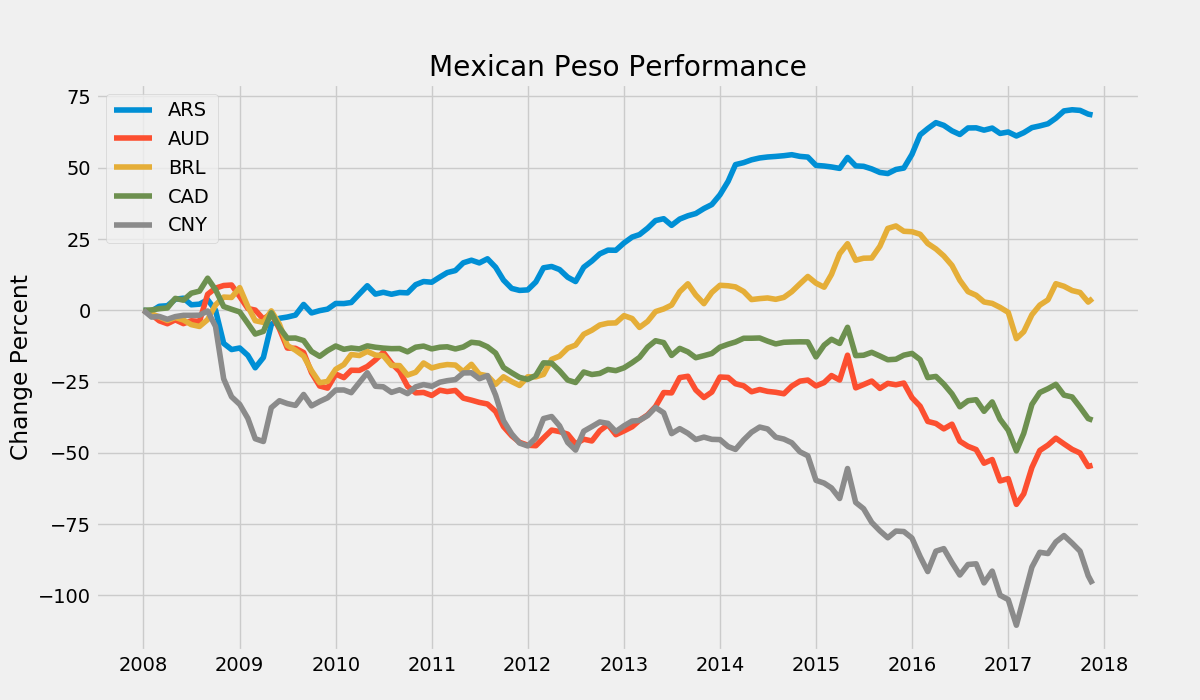
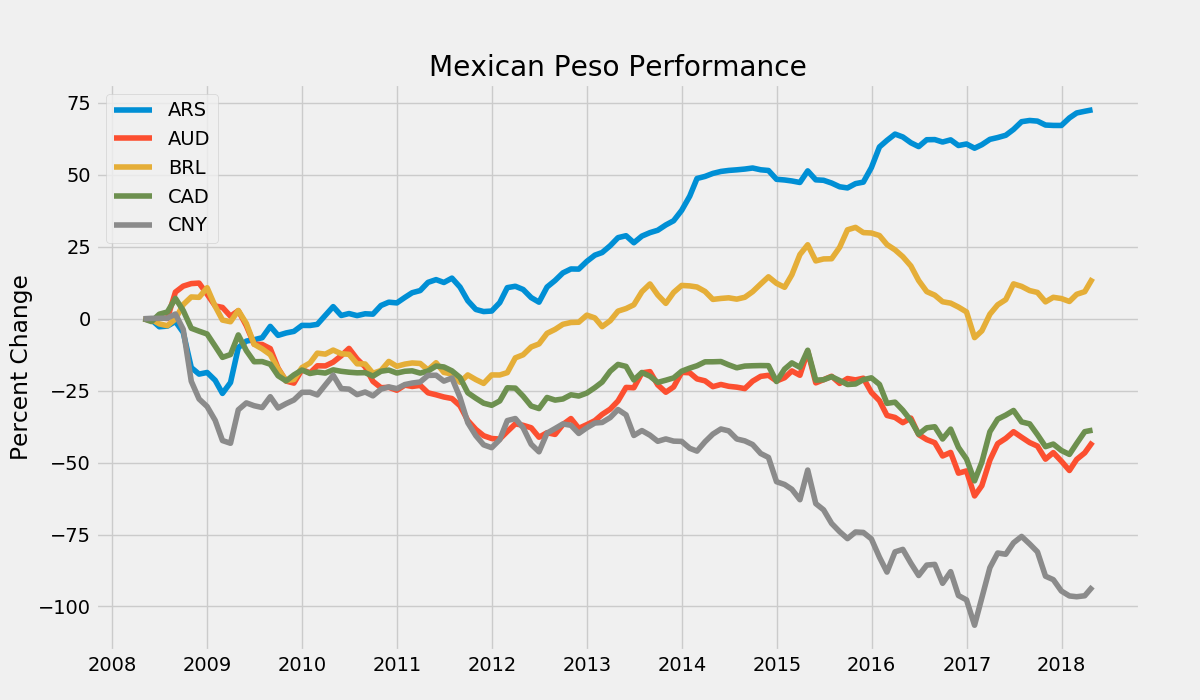
Updated data and included source code.

diff --git a/src/step3.py b/src/step3.py
@@ -1,0 +1,71 @@
+"""
+In this step we generate charts from our data.
+This file has similar code from step2.py
+"""
+
+from datetime import datetime
+
+import matplotlib.pyplot as plt
+import pandas as pd
+
+plt.rcParams["figure.figsize"] = [12, 7]
+plt.style.use("fivethirtyeight")
+
+# We declare in our list the pairs we need for our figure.
+# Each pair is a tuple.
+# We split the list into two, to make the plots more readable.
+
+top_pairs = [
+    ("MXN", "CHF"),
+    ("MXN", "EUR"),
+    ("MXN", "GBP"),
+    ("MXN", "JPY"),
+    ("MXN", "USD")
+]
+
+popular_pairs = [
+    ("MXN", "ARS"),
+    ("MXN", "AUD"),
+    ("MXN", "BRL"),
+    ("MXN", "CAD"),
+    ("MXN", "CNY")
+]
+
+
+def date_converter(value):
+    """Converts the UNIX timestamp to a datetime object."""
+
+    return datetime.utcfromtimestamp(float(int(value) / 1000))
+
+
+def generate_fig(pairs, file_name):
+    """
+    Converts the .csv into a pandas Dataframe and plots the relevant data.
+    In this project, the data was resampled to 1 month intervals.
+    """
+
+    for pair in pairs:
+
+        df = pd.read_csv("{}{}.csv".format(pair[0], pair[1]), header=None, names=[
+                         "timestamp", "rate", "inversed"], converters={"timestamp": date_converter})
+        resampled_df = df.resample("M", on="timestamp").mean().reset_index()
+
+        initial_value = resampled_df["rate"].iloc[0]
+        growth_ratios = [(item - initial_value) / initial_value *
+                         100 * -1 for item in resampled_df["rate"]]
+        
+        plt.plot(resampled_df["timestamp"], growth_ratios, label=pair[1])
+
+    plt.ylabel("Percent Change")
+    plt.title("Mexican Peso Performance")
+    plt.legend()
+    plt.draw()
+    plt.savefig(file_name)
+    plt.close()
+
+
+if __name__ == "__main__":
+
+    # We call the same function 2 times with different parameters.
+    generate_fig(top_pairs, "top5.png")
+    generate_fig(popular_pairs, "popular.png")

diff --git a/src/step2.py b/src/step2.py
@@ -1,0 +1,61 @@
+"""
+This script gives us the max, min and average.
+The pairs list is shared from the other files.
+"""
+
+from datetime import datetime
+
+import pandas as pd
+
+# We declare in our list the pairs we need.
+# Each pair is a tuple.
+
+pairs = [
+    ("MXN", "ARS"),
+    ("MXN", "AUD"),
+    ("MXN", "BRL"),
+    ("MXN", "CAD"),
+    ("MXN", "CHF"),
+    ("MXN", "CNY"),
+    ("MXN", "EUR"),
+    ("MXN", "GBP"),
+    ("MXN", "JPY"),
+    ("MXN", "USD")
+]
+
+
+def date_converter(value):
+    """Converts the UNIX timestamp to a datetime object."""
+
+    return datetime.utcfromtimestamp(float(int(value) / 1000))
+
+
+def get_insights(pair):
+    """
+    Converts the .csv into a pandas Dataframe and gets the insights.
+    In this project, the data was resampled to 1 month intervals.
+    Then the values were formatted for Markdown.
+    """
+
+    df = pd.read_csv("{}{}.csv".format(pair[0], pair[1]), header=None, names=[
+                     "timestamp", "rate", "inversed"], converters={"timestamp": date_converter})
+
+    resampled_df = df.resample("M", on="timestamp").mean().reset_index()
+
+    initial_value = resampled_df["rate"].iloc[0]
+    latest_value = resampled_df["rate"].iloc[-1]
+    percentage_change = (latest_value - initial_value) / initial_value * -1
+    min_value = resampled_df["rate"].min()
+    max_value = resampled_df["rate"].max()
+    mean_value = resampled_df["rate"].mean()
+
+    final_string = "| {} | {:.2f} | {:.2f} | {:.2f}% | {:.2f} | {:.2f} | {:.2f} |".format(
+        pair[1], initial_value, latest_value, percentage_change, min_value, max_value, mean_value)
+
+    print(final_string)
+
+
+if __name__ == "__main__":
+
+    for pair in pairs:
+        get_insights(pair)

diff --git a/src/step1.py b/src/step1.py
@@ -1,0 +1,45 @@
+"""This script will connect to the OFX public API, download the data and convert it to .csv"""
+
+import csv
+import time
+
+import requests
+
+# We declare in our list the pairs we need.
+# Each pair is a tuple.
+
+pairs = [
+    ("MXN", "ARS"),
+    ("MXN", "AUD"),
+    ("MXN", "BRL"),
+    ("MXN", "CAD"),
+    ("MXN", "CHF"),
+    ("MXN", "CNY"),
+    ("MXN", "EUR"),
+    ("MXN", "GBP"),
+    ("MXN", "JPY"),
+    ("MXN", "USD")
+]
+
+
+def download_data(pair):
+    """Downloads the specified pair with a daily interval for the last 10 years."""
+
+    url = "https://api.ofx.com/PublicSite.ApiService/SpotRateHistory/10year/{}/{}?DecimalPlaces=6&ReportingInterval=daily&format=json"
+
+    with requests.get(url.format(pair[0], pair[1])) as response:
+
+        with open("{}{}.csv".format(pair[0], pair[1]), "w", encoding="utf-8", newline="") as temp_file:
+
+            writer = csv.writer(temp_file)
+
+            for item in response.json()["HistoricalPoints"]:
+                writer.writerow([item["PointInTime"], item["InverseInterbankRate"], item["InterbankRate"]])
+
+
+if __name__ == "__main__":
+
+    for pair in pairs:
+        download_data(pair)
+        print("Finished:", pair[0], pair[1])
+        time.sleep(1)

diff --git a/README.md b/README.md
@@ -24,11 +24,11 @@ In the following figure we will observe how the Mexican Peso has performed again
 
 | Code | Name | Initial Value | Latest Value | Percentage Change | Min | Max | Mean |
 | ---- |:---------------------|------:|------:|---------:|------:|------:|------:|
-| CHF  | Swiss Franc          |  9.51 | 19.18 | -101.58% | 9.34  | 21.17 | 14.50 |
-| EUR  | Euro                 | 15.79 | 22.29 |  -41.17% | 15.14 | 22.68 | 17.96 |
-| GBP  | Great Britain Pound  | 21.91 | 25.12 |  -14.68% | 18.67 | 26.60 | 21.71 |
-| JPY  | Japanese Yen         |  0.09 |  0.16 |  -74.33% |  0.09  | 0.18 |  0.14 |
-| USD  | United States Dollar | 10.84 | 19.11 |  -76.24% | 10.10 | 21.34 | 14.16 |
+| CHF | Swiss Franc          | 10.21 | 18.93 | -0.85% | 9.34 | 21.17 | 14.86 |
+| EUR | Euro                 | 16.50 | 22.44 | -0.36% | 15.15 | 23.07 | 18.22 |
+| GBP | Great Britain Pound  | 20.77 | 25.76 | -0.24% | 18.67 | 26.60 | 21.90 |
+| JPY | Japanese Yen         | 0.10 | 0.17 | -0.69% | 0.09 | 0.19 | 0.15 |
+| USD | United States Dollar | 10.48 | 18.21 | -0.74% | 10.10 | 21.35 | 14.46 |
 
 The Mexican Peso lost against all the top 5 currencies. It lost the most against the Swiss Franc, it now costs the double to buy one.
 
@@ -40,11 +40,11 @@ In the next figure we can observe how the Mexican Peso performed against other 5
 
 | Code | Name | Initial Value | Latest Value | Percentage Change | Min | Max | Mean |
 | ---- |:---------------------|------:|------:|--------:|-----:|------:|------:|
-| ARS  | Argentine Peso       |  3.45 |  1.08 |  68.50% | 1.02 |  4.15 |  2.46 |
-| AUD  | Australian Dollar    |  9.46 | 14.61 | -54.36% | 8.62 | 15.91 | 12.22 |
-| BRL  | Brazilian Real       |  6.07 |  5.82 |   4.13% | 4.27 |  7.67 |  6.20 |
-| CAD  | Canadian Dollar      | 10.82 | 14.98 | -38.52% | 9.60 | 16.15 | 12.53 |
-| CNY  | Chinese Yuan         |  1.47 |  2.88 | -95.99% | 1.47 |  3.09 |  2.16 |
+| ARS  | Argentine Peso       | 3.30 | 0.90 | 0.73% | 0.90 | 4.15 | 2.37 |
+| AUD  | Australian Dollar    | 9.85 | 14.06 | -0.43% | 8.63 | 15.91 | 12.40 |
+| BRL  | Brazilian Real       | 6.27 | 5.39 | 0.14% | 4.28 | 7.68 | 6.18 |
+| CAD  | Canadian Dollar      | 10.34 | 14.34 | -0.39% | 9.60 | 16.16 | 12.69 |
+| CNY  | Chinese Yuan         | 1.50 | 2.89 | -0.93% | 1.47 | 3.10 | 2.22 |
 
 The Mexican Peso got stronger against the Argentine Peso (now you know where to vacation).
 
